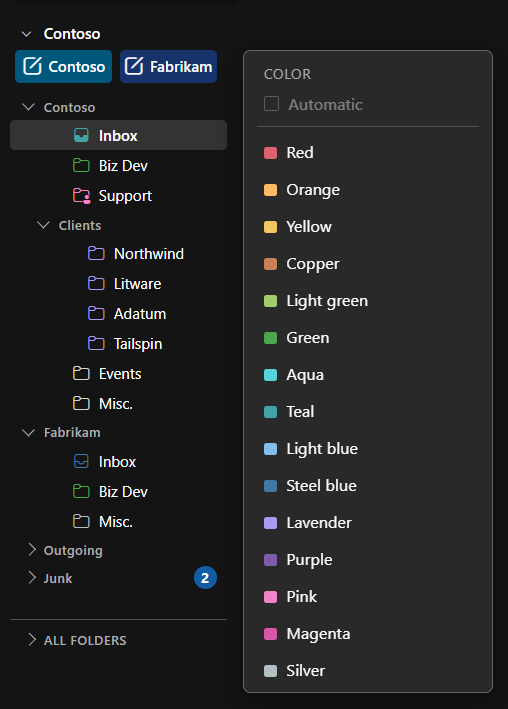
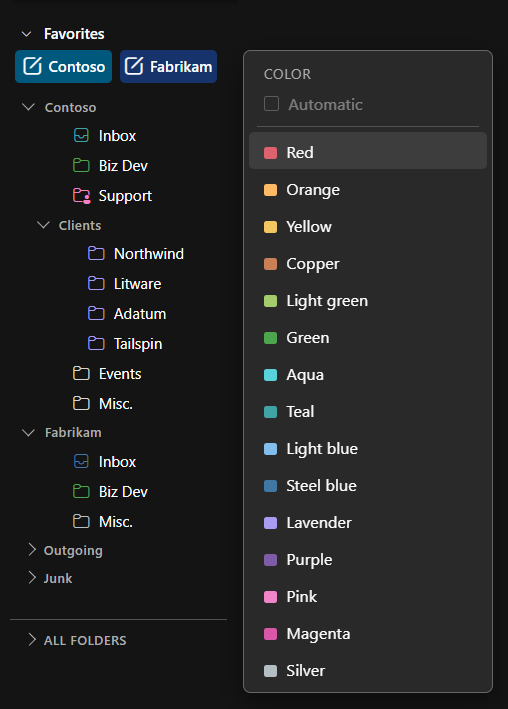
Folder colors: override from a stylesheet, label a shared root's nested name, light and dark screenshots
- The icon box gets data-olkt-color and a !important rule sets --customColor, so
  Outlook's own inline value is never written; Automatic shows Outlook's current
  color, also after a theme switch (the saved native copy went stale there).
- A shared mailbox's root draws its name one wrapper deeper; the label rule now
  reaches it.
- README shows the Color menu in both themes; the dark shot is retaken now that the
  Favorites heading is no longer relabeled.

diff --git a/src/page.js b/src/page.js
@@ -535,7 +535,9 @@ const runPage = (OLKT_CONFIG, carried, owedAnswers) => {
     for (const [acct, name] of Object.entries(cfg.accounts || {})) {
       if (!name) continue;
       for (const r of [`${PANE} [role="treeitem"][aria-level="1"][data-folder-name=${q(acct)}] > span:first-of-type`,
-                       `${PANE} [role="treeitem"][data-olkt-acct=${q(acct)}] > span:first-of-type`]) {
+                       `${PANE} [role="treeitem"][data-olkt-acct=${q(acct)}] > span:first-of-type`,
+                       // A shared mailbox's root draws its name one wrapper deeper.
+                       `${PANE} [role="treeitem"][aria-level="1"][data-olkt-acct=${q(acct)}] > div > div > span:first-child`]) {
         out.push(`${r}{font-size:0!important}`, `${r}::after{content:${JSON.stringify(name)};font-size:${size}}`);
       }
     }
@@ -2007,8 +2009,10 @@ const runPage = (OLKT_CONFIG, carried, owedAnswers) => {
   // Here any folder row, shared or not, takes one of the 15 colors Outlook's own picker
   // offers, in its order, with its dark and light theme values (read from Outlook's
   // FolderColorPicker). Shift+right-click, Color... A choice is saved as the color's name
-  // per account and folder, so it follows the theme; it is put back after every redraw.
-  // "Automatic" gives back whatever Outlook drew.
+  // per folder, so it follows the theme. The row's icon box gets data-olkt-color and a
+  // stylesheet rule overrides --customColor with !important, which outranks Outlook's own
+  // inline value without touching it, so "Automatic" (dropping the attribute) shows
+  // whatever Outlook draws now.
   // name, label, dark theme, light theme
   const FOLDER_COLORS = [
     ['cranberry', 'Red', '#DC626D', '#C50F1F'], ['peach', 'Orange', '#FFBA66', '#FF8C00'],
@@ -2047,24 +2051,27 @@ const runPage = (OLKT_CONFIG, carried, owedAnswers) => {
     return accountOf(name, row) + '|' + name.replace(/ \([^()]+@[^()]+\)$/, '');
   }
   let colorsDark = null;
+  let colorStyle = null;
   function ensureFolderColors() {
-    const dark = colorsDark = isDarkTheme();
-    if (!Object.keys(folderColors).length && !document.querySelector('[data-olkt-nat]')) return;
+    const any = Object.keys(folderColors).length > 0;
+    if (!any && !document.querySelector('[data-olkt-color]')) return;
+    const dark = isDarkTheme();
+    if (!colorStyle || !colorStyle.isConnected || dark !== colorsDark) {
+      colorsDark = dark;
+      if (!colorStyle || !colorStyle.isConnected) {
+        colorStyle = document.createElement('style');
+        colorStyle.id = 'olkt-colors';
+        document.head.appendChild(colorStyle);
+      }
+      colorStyle.textContent = FOLDER_COLORS.map(c => `[data-olkt-color="${c[0]}"]{--customColor:${c[dark ? 2 : 3]}!important}`).join('');
+    }
     for (const row of document.querySelectorAll('[role="treeitem"][data-folder-name]')) {
       const icon = colorIcon(row);
       const box = icon && icon.parentElement;
       if (!box) continue;
-      const entry = FOLDER_COLORS.find(c => c[0] === folderColors[colorKey(row)]);
-      const want = entry ? entry[dark ? 2 : 3] : '';
-      const have = box.style.getPropertyValue('--customColor').trim();
-      if (want) {
-        if (!box.hasAttribute('data-olkt-nat')) box.setAttribute('data-olkt-nat', have);
-        if (have.toLowerCase() !== want.toLowerCase()) box.style.setProperty('--customColor', want);
-      } else if (box.hasAttribute('data-olkt-nat')) {
-        const nat = box.getAttribute('data-olkt-nat');
-        box.removeAttribute('data-olkt-nat');
-        if (nat) box.style.setProperty('--customColor', nat); else box.style.removeProperty('--customColor');
-      }
+      const name = any ? folderColors[colorKey(row)] : '';
+      if (name && FOLDER_COLORS.some(c => c[0] === name)) setAttr(box, 'data-olkt-color', name);
+      else if (box.hasAttribute('data-olkt-color')) box.removeAttribute('data-olkt-color');
     }
   }
   function setFolderColor(row, name) {
@@ -2097,11 +2104,8 @@ const runPage = (OLKT_CONFIG, carried, owedAnswers) => {
   let themeTimer = 0;
   const onThemeTick = () => { if (Object.keys(folderColors).length && isDarkTheme() !== colorsDark) ensureFolderColors(); };
   function restoreFolderColors() {
-    document.querySelectorAll('[data-olkt-nat]').forEach(box => {
-      const nat = box.getAttribute('data-olkt-nat');
-      box.removeAttribute('data-olkt-nat');
-      if (nat) box.style.setProperty('--customColor', nat); else box.style.removeProperty('--customColor');
-    });
+    document.querySelectorAll('[data-olkt-color]').forEach(box => box.removeAttribute('data-olkt-color'));
+    if (colorStyle) colorStyle.remove();
   }
 
   // Favorites that are in no group yet (all of them, on a new install) show at the

diff --git a/mods/outlook-refined.wh.cpp b/mods/outlook-refined.wh.cpp
@@ -758,7 +758,9 @@ const runPage = (OLKT_CONFIG, carried, owedAnswers) => {
     for (const [acct, name] of Object.entries(cfg.accounts || {})) {
       if (!name) continue;
       for (const r of [`${PANE} [role="treeitem"][aria-level="1"][data-folder-name=${q(acct)}] > span:first-of-type`,
-                       `${PANE} [role="treeitem"][data-olkt-acct=${q(acct)}] > span:first-of-type`]) {
+                       `${PANE} [role="treeitem"][data-olkt-acct=${q(acct)}] > span:first-of-type`,
+                       // A shared mailbox's root draws its name one wrapper deeper.
+                       `${PANE} [role="treeitem"][aria-level="1"][data-olkt-acct=${q(acct)}] > div > div > span:first-child`]) {
         out.push(`${r}{font-size:0!important}`, `${r}::after{content:${JSON.stringify(name)};font-size:${size}}`);
       }
     }
@@ -2230,8 +2232,10 @@ const runPage = (OLKT_CONFIG, carried, owedAnswers) => {
   // Here any folder row, shared or not, takes one of the 15 colors Outlook's own picker
   // offers, in its order, with its dark and light theme values (read from Outlook's
   // FolderColorPicker). Shift+right-click, Color... A choice is saved as the color's name
-  // per account and folder, so it follows the theme; it is put back after every redraw.
-  // "Automatic" gives back whatever Outlook drew.
+  // per folder, so it follows the theme. The row's icon box gets data-olkt-color and a
+  // stylesheet rule overrides --customColor with !important, which outranks Outlook's own
+  // inline value without touching it, so "Automatic" (dropping the attribute) shows
+  // whatever Outlook draws now.
   // name, label, dark theme, light theme
   const FOLDER_COLORS = [
     ['cranberry', 'Red', '#DC626D', '#C50F1F'], ['peach', 'Orange', '#FFBA66', '#FF8C00'],
@@ -2270,24 +2274,27 @@ const runPage = (OLKT_CONFIG, carried, owedAnswers) => {
     return accountOf(name, row) + '|' + name.replace(/ \([^()]+@[^()]+\)$/, '');
   }
   let colorsDark = null;
+  let colorStyle = null;
   function ensureFolderColors() {
-    const dark = colorsDark = isDarkTheme();
-    if (!Object.keys(folderColors).length && !document.querySelector('[data-olkt-nat]')) return;
+    const any = Object.keys(folderColors).length > 0;
+    if (!any && !document.querySelector('[data-olkt-color]')) return;
+    const dark = isDarkTheme();
+    if (!colorStyle || !colorStyle.isConnected || dark !== colorsDark) {
+      colorsDark = dark;
+      if (!colorStyle || !colorStyle.isConnected) {
+        colorStyle = document.createElement('style');
+        colorStyle.id = 'olkt-colors';
+        document.head.appendChild(colorStyle);
+      }
+      colorStyle.textContent = FOLDER_COLORS.map(c => `[data-olkt-color="${c[0]}"]{--customColor:${c[dark ? 2 : 3]}!important}`).join('');
+    }
     for (const row of document.querySelectorAll('[role="treeitem"][data-folder-name]')) {
       const icon = colorIcon(row);
       const box = icon && icon.parentElement;
       if (!box) continue;
-      const entry = FOLDER_COLORS.find(c => c[0] === folderColors[colorKey(row)]);
-      const want = entry ? entry[dark ? 2 : 3] : '';
-      const have = box.style.getPropertyValue('--customColor').trim();
-      if (want) {
-        if (!box.hasAttribute('data-olkt-nat')) box.setAttribute('data-olkt-nat', have);
-        if (have.toLowerCase() !== want.toLowerCase()) box.style.setProperty('--customColor', want);
-      } else if (box.hasAttribute('data-olkt-nat')) {
-        const nat = box.getAttribute('data-olkt-nat');
-        box.removeAttribute('data-olkt-nat');
-        if (nat) box.style.setProperty('--customColor', nat); else box.style.removeProperty('--customColor');
-      }
+      const name = any ? folderColors[colorKey(row)] : '';
+      if (name && FOLDER_COLORS.some(c => c[0] === name)) setAttr(box, 'data-olkt-color', name);
+      else if (box.hasAttribute('data-olkt-color')) box.removeAttribute('data-olkt-color');
     }
   }
   function setFolderColor(row, name) {
@@ -2320,11 +2327,8 @@ const runPage = (OLKT_CONFIG, carried, owedAnswers) => {
   let themeTimer = 0;
   const onThemeTick = () => { if (Object.keys(folderColors).length && isDarkTheme() !== colorsDark) ensureFolderColors(); };
   function restoreFolderColors() {
-    document.querySelectorAll('[data-olkt-nat]').forEach(box => {
-      const nat = box.getAttribute('data-olkt-nat');
-      box.removeAttribute('data-olkt-nat');
-      if (nat) box.style.setProperty('--customColor', nat); else box.style.removeProperty('--customColor');
-    });
+    document.querySelectorAll('[data-olkt-color]').forEach(box => box.removeAttribute('data-olkt-color'));
+    if (colorStyle) colorStyle.remove();
   }
 
   // Favorites that are in no group yet (all of them, on a new install) show at the

diff --git a/README.md b/README.md
@@ -27,8 +27,8 @@ colors, each drawn in its light or dark shade to match the theme (Automatic give
 Outlook's). The pane can be dragged wider, the account trees fold
 under one heading, and accounts reorder by dragging.
 
-![Shift+right-click a folder for Outlook's own folder colors; a shared mailbox's folders take
-them too](docs/folder-colors-dark.png)
+<p><img src="docs/folder-colors-dark.png" width="380" alt="The Color menu on a folder in the dark theme, with Outlook's 15 folder colors">
+<img src="docs/folder-colors-light.png" width="380" alt="The same menu in the light theme, each color in its light shade"></p>
 
 **Agenda.** Today and the next few days from every account's calendar sit at the bottom of the
 folder pane, each event in its calendar's color, with Outlook's own event icons, a marker on
